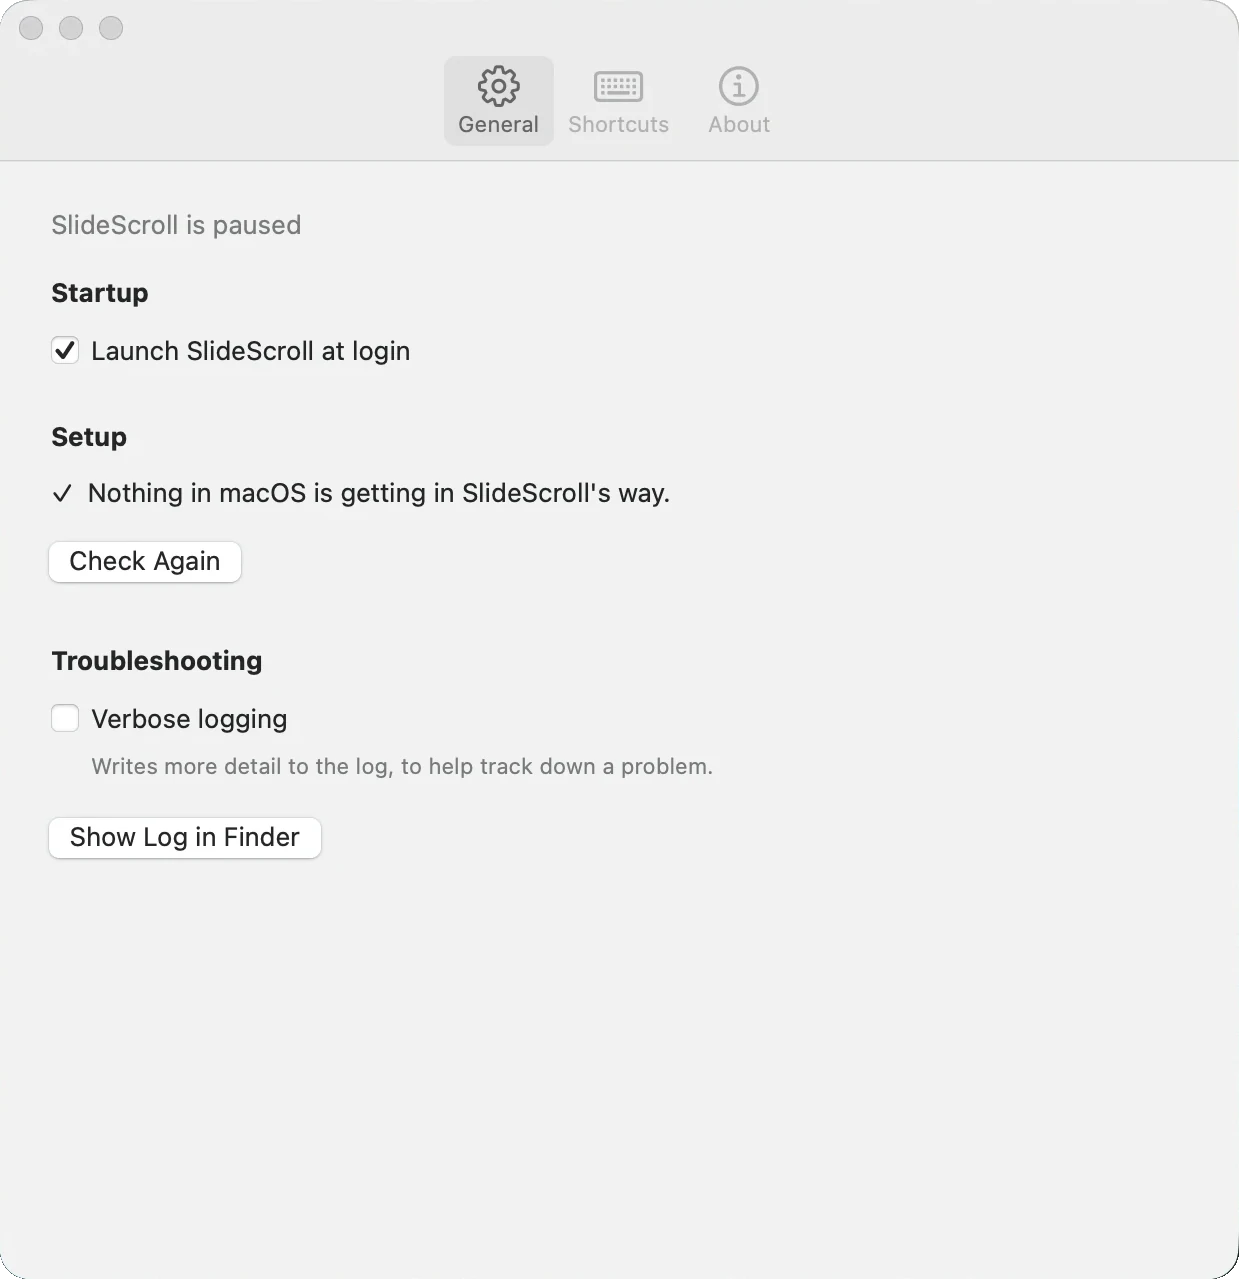
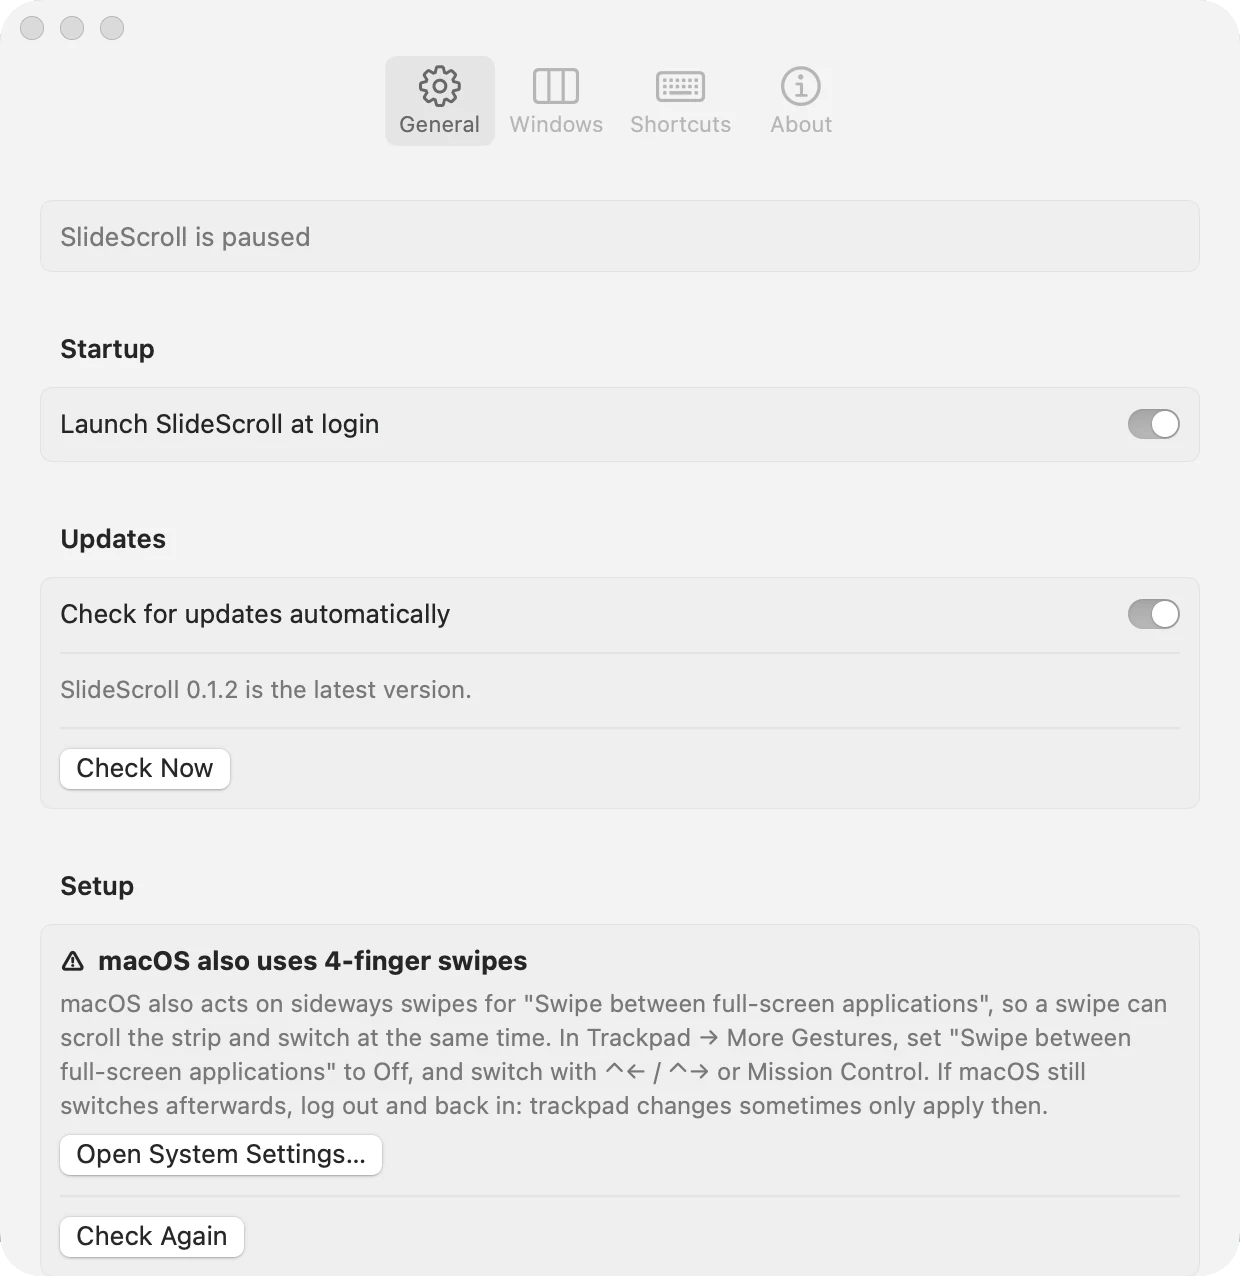
Show the current Settings window on the site, with its Windows tab

diff --git a/site/index.html b/site/index.html
@@ -164,20 +164,25 @@
     <div class="container">
       <div class="section__head">
         <h2 id="settings-head">Set up in one window.</h2>
-        <p class="lead">Shortcuts, startup, and a live check of the macOS settings that get in the way.</p>
+        <p class="lead">Shortcuts, swipes, startup, and a live check of the macOS settings that get in the way.</p>
       </div>
       <div class="switch" data-switch>
         <div class="seg" role="tablist" aria-label="Settings tabs">
           <button class="chip" role="tab" type="button" id="tab-general" aria-controls="panel-general" aria-selected="true">General</button>
+          <button class="chip" role="tab" type="button" id="tab-windows" aria-controls="panel-windows" aria-selected="false" tabindex="-1">Windows</button>
           <button class="chip" role="tab" type="button" id="tab-shortcuts" aria-controls="panel-shortcuts" aria-selected="false" tabindex="-1">Shortcuts</button>
           <button class="chip" role="tab" type="button" id="tab-about" aria-controls="panel-about" aria-selected="false" tabindex="-1">About</button>
         </div>
         <div class="switch__panel" role="tabpanel" id="panel-general" aria-labelledby="tab-general">
-          <img class="shot" src="assets/settings-general.webp" width="1239" height="1279" loading="lazy" alt="SlideScroll Settings, General tab: launch at login, a setup check reading “Nothing in macOS is getting in SlideScroll’s way”, and verbose logging.">
-          <p class="switch__note">Launch at login, and a check that flags macOS settings that fight SlideScroll, with a button to fix each one.</p>
+          <img class="shot" src="assets/settings-general.webp?v=2" width="1240" height="1276" loading="lazy" alt="SlideScroll Settings, General tab: launch at login, automatic update checks, and a setup check warning that macOS also uses four-finger swipes, with a button to open System Settings.">
+          <p class="switch__note">Launch at login, automatic updates, and a check that flags macOS settings that fight SlideScroll, with the way to fix each one.</p>
+        </div>
+        <div class="switch__panel" role="tabpanel" id="panel-windows" aria-labelledby="tab-windows" hidden>
+          <img class="shot" src="assets/settings-windows.webp?v=2" width="1240" height="1280" loading="lazy" alt="SlideScroll Settings, Windows tab: swipe with three or four fingers, natural direction, the space between windows, and apps that always float.">
+          <p class="switch__note">Three- or four-finger swipes, which way the strip moves, the gap between windows, and apps that stay off the strip.</p>
         </div>
         <div class="switch__panel" role="tabpanel" id="panel-shortcuts" aria-labelledby="tab-shortcuts" hidden>
-          <img class="shot" src="assets/settings-shortcuts.webp" width="1238" height="1279" loading="lazy" alt="SlideScroll Settings, Shortcuts tab: every action with two shortcut slots, shown in the keyboard’s own labels.">
+          <img class="shot" src="assets/settings-shortcuts.webp?v=2" width="1240" height="1280" loading="lazy" alt="SlideScroll Settings, Shortcuts tab: every action with two shortcut slots, shown in the keyboard’s own labels.">
           <p class="switch__note">Every action takes two shortcuts, shown the way your own keyboard labels them. Click one and press new keys.</p>
         </div>
         <div class="switch__panel" role="tabpanel" id="panel-about" aria-labelledby="tab-about" hidden>
